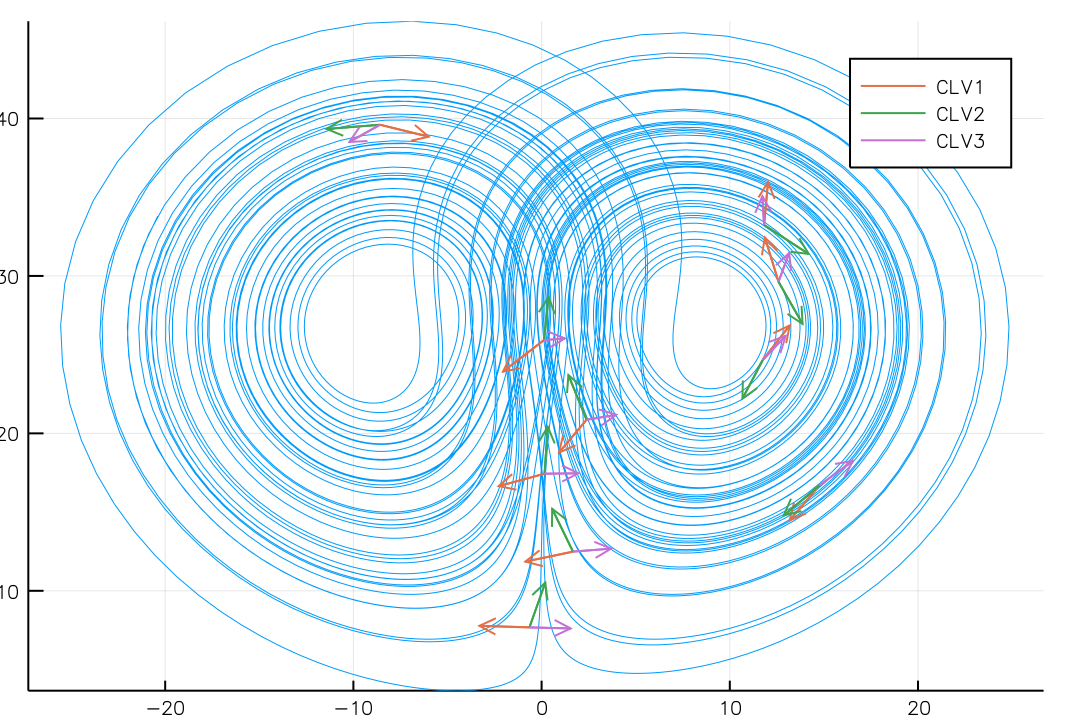
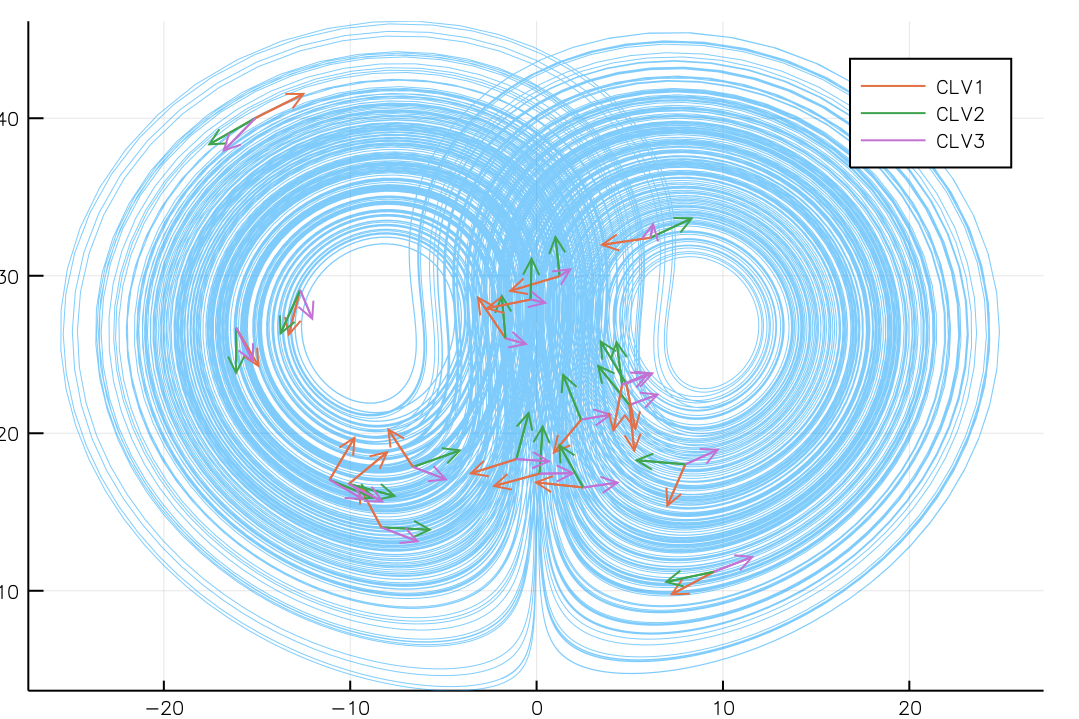
build based on 1c8a84d

diff --git a/latest/api/index.html b/latest/api/index.html
@@ -225,7 +225,7 @@
 
 <p>If <code>tspan</code> is a <code>Real</code> instead of a <code>Tuple</code>, then <code>(0, tspan)</code> is passed as the <code>tspan</code> argument of <code>ODEProblem</code>.</p>
 <p>For the list of usable keyword arguments, see <a href="./#LyapunovExponents.LEProblem"><code>LEProblem</code></a>.</p>
-<p><a target='_blank' href='https://github.com/tkf/LyapunovExponents.jl/blob/c022d71c2a09b2880fcd05c44c7dcf3eb368ccd7/src/continuous_exponents.jl#L16-L30' class='documenter-source'>source</a><br></p>
+<p><a target='_blank' href='https://github.com/tkf/LyapunovExponents.jl/blob/1c8a84dd873b4fe513eda391e4a660cf41289d58/src/continuous_exponents.jl#L16-L30' class='documenter-source'>source</a><br></p>
 <p><a id='LyapunovExponents.DiscreteLEProblem' href='#LyapunovExponents.DiscreteLEProblem'>#</a>
 <strong><code>LyapunovExponents.DiscreteLEProblem</code></strong> &mdash; <em>Type</em>.</p>
 <pre><code>DiscreteLEProblem(phase_dynamics!, u0, tspan [, p [, num_attr]];
@@ -238,29 +238,29 @@
 
 <p>If <code>tspan</code> is a <code>Integer</code> instead of a <code>Tuple</code>, then <code>(0, tspan)</code> is passed as the <code>tspan</code> argument of <code>DiscreteProblem</code>.</p>
 <p>For the list of usable keyword arguments, see <a href="./#LyapunovExponents.LEProblem"><code>LEProblem</code></a>.</p>
-<p><a target='_blank' href='https://github.com/tkf/LyapunovExponents.jl/blob/c022d71c2a09b2880fcd05c44c7dcf3eb368ccd7/src/discrete_exponents.jl#L34-L48' class='documenter-source'>source</a><br></p>
+<p><a target='_blank' href='https://github.com/tkf/LyapunovExponents.jl/blob/1c8a84dd873b4fe513eda391e4a660cf41289d58/src/discrete_exponents.jl#L34-L48' class='documenter-source'>source</a><br></p>
 <p><a id='LyapunovExponents.lyapunov_exponents' href='#LyapunovExponents.lyapunov_exponents'>#</a>
 <strong><code>LyapunovExponents.lyapunov_exponents</code></strong> &mdash; <em>Function</em>.</p>
 <pre><code>lyapunov_exponents(solver)
 </code></pre>
 
 <p>Get the result of Lyapunov exponents calculation stored in <code>solver</code>.</p>
-<p><a target='_blank' href='https://github.com/tkf/LyapunovExponents.jl/blob/c022d71c2a09b2880fcd05c44c7dcf3eb368ccd7/src/core.jl#L260-L264' class='documenter-source'>source</a><br></p>
+<p><a target='_blank' href='https://github.com/tkf/LyapunovExponents.jl/blob/1c8a84dd873b4fe513eda391e4a660cf41289d58/src/core.jl#L260-L264' class='documenter-source'>source</a><br></p>
 <pre><code>lyapunov_exponents(phase_dynamics!, u0, tspan; &lt;keyword arguments&gt;)
 </code></pre>
 
 <p>Calculate Lyapunov exponents of a dynamical system.</p>
-<p><a target='_blank' href='https://github.com/tkf/LyapunovExponents.jl/blob/c022d71c2a09b2880fcd05c44c7dcf3eb368ccd7/src/interface.jl#L1-L5' class='documenter-source'>source</a><br></p>
+<p><a target='_blank' href='https://github.com/tkf/LyapunovExponents.jl/blob/1c8a84dd873b4fe513eda391e4a660cf41289d58/src/interface.jl#L1-L5' class='documenter-source'>source</a><br></p>
 <p><a id='Low-level-API-1'></a></p>
 <h2 id="low-level-api">Low-level API</h2>
 <p><a id='LyapunovExponents.AbstractLEProblem' href='#LyapunovExponents.AbstractLEProblem'>#</a>
 <strong><code>LyapunovExponents.AbstractLEProblem</code></strong> &mdash; <em>Type</em>.</p>
 <p>The Problem type represents the setup of the Lyapunov exponents calculation.</p>
-<p><a target='_blank' href='https://github.com/tkf/LyapunovExponents.jl/blob/c022d71c2a09b2880fcd05c44c7dcf3eb368ccd7/src/types.jl#L3-L5' class='documenter-source'>source</a><br></p>
+<p><a target='_blank' href='https://github.com/tkf/LyapunovExponents.jl/blob/1c8a84dd873b4fe513eda391e4a660cf41289d58/src/types.jl#L3-L5' class='documenter-source'>source</a><br></p>
 <p><a id='LyapunovExponents.AbstractRelaxer' href='#LyapunovExponents.AbstractRelaxer'>#</a>
 <strong><code>LyapunovExponents.AbstractRelaxer</code></strong> &mdash; <em>Type</em>.</p>
 <p>The Relaxer type represents the calculation required for throwing away the transient part of the dynamics.</p>
-<p><a target='_blank' href='https://github.com/tkf/LyapunovExponents.jl/blob/c022d71c2a09b2880fcd05c44c7dcf3eb368ccd7/src/types.jl#L8-L11' class='documenter-source'>source</a><br></p>
+<p><a target='_blank' href='https://github.com/tkf/LyapunovExponents.jl/blob/1c8a84dd873b4fe513eda391e4a660cf41289d58/src/types.jl#L8-L11' class='documenter-source'>source</a><br></p>
 <p><a id='LyapunovExponents.AbstractLESolver' href='#LyapunovExponents.AbstractLESolver'>#</a>
 <strong><code>LyapunovExponents.AbstractLESolver</code></strong> &mdash; <em>Type</em>.</p>
 <p>The Solver type represents the core Lyapunov Exponents (LE) calculation.  The LE calculation is done by calling the in-place mutating function <a href="./#DiffEqBase.solve!"><code>solve!</code></a>.</p>
@@ -279,7 +279,7 @@
  │     ▼                                                              <br />
  └▶ Solver (<a href="./#LyapunovExponents.AbstractLESolver"><code>AbstractLESolver</code></a>) ┄┄ ⟲ <a href="./#DiffEqBase.solve!"><code>solve!</code></a>,                                                  <a href="./#DiffEqBase.step!"><code>step!</code></a>       <br />
  </code></p>
-<p><a target='_blank' href='https://github.com/tkf/LyapunovExponents.jl/blob/c022d71c2a09b2880fcd05c44c7dcf3eb368ccd7/src/types.jl#L14-L51' class='documenter-source'>source</a><br></p>
+<p><a target='_blank' href='https://github.com/tkf/LyapunovExponents.jl/blob/1c8a84dd873b4fe513eda391e4a660cf41289d58/src/types.jl#L14-L51' class='documenter-source'>source</a><br></p>
 <p><a id='LyapunovExponents.LEProblem' href='#LyapunovExponents.LEProblem'>#</a>
 <strong><code>LyapunovExponents.LEProblem</code></strong> &mdash; <em>Type</em>.</p>
 <pre><code>LEProblem(phase_prob, num_attr; &lt;keyword arguments&gt;)
@@ -295,21 +295,21 @@ LEProblem(phase_prob; num_attr, &lt;keyword arguments&gt;)
 <li><code>Q0::Array</code>: The initial guess of the Gram-Schmidt "Lyapunov vectors".</li>
 <li><code>tangent_dynamics::Function</code>: A vector field for solving phase space  evolution <em>and</em> tangent space evolution together.  If this is not  provided, <code>tangent_dynamics</code> is derived from <code>phase_prob.f</code>.  See  also <a href="./#LyapunovExponents.PhaseTangentDynamics"><code>PhaseTangentDynamics</code></a>.</li>
 </ul>
-<p><a target='_blank' href='https://github.com/tkf/LyapunovExponents.jl/blob/c022d71c2a09b2880fcd05c44c7dcf3eb368ccd7/src/types.jl#L41-L65' class='documenter-source'>source</a><br></p>
+<p><a target='_blank' href='https://github.com/tkf/LyapunovExponents.jl/blob/1c8a84dd873b4fe513eda391e4a660cf41289d58/src/types.jl#L41-L65' class='documenter-source'>source</a><br></p>
 <p><a id='LyapunovExponents.LESolver' href='#LyapunovExponents.LESolver'>#</a>
 <strong><code>LyapunovExponents.LESolver</code></strong> &mdash; <em>Type</em>.</p>
 <pre><code>LESolver(integrator; &lt;keyword arguments&gt;)
 </code></pre>
 
 <p>A type representing the main calculation of Lyapunov Exponents (LE). This struct holds all temporary state required for LE calculation.</p>
-<p><a target='_blank' href='https://github.com/tkf/LyapunovExponents.jl/blob/c022d71c2a09b2880fcd05c44c7dcf3eb368ccd7/src/types.jl#L107-L112' class='documenter-source'>source</a><br></p>
+<p><a target='_blank' href='https://github.com/tkf/LyapunovExponents.jl/blob/1c8a84dd873b4fe513eda391e4a660cf41289d58/src/types.jl#L107-L112' class='documenter-source'>source</a><br></p>
 <p><a id='LyapunovExponents.get_relaxer' href='#LyapunovExponents.get_relaxer'>#</a>
 <strong><code>LyapunovExponents.get_relaxer</code></strong> &mdash; <em>Function</em>.</p>
 <pre><code>get_relaxer(prob::AbstractLEProblem; &lt;keyword arguments&gt;) :: AbstractRelaxer
 </code></pre>
 
 <p>Get a relaxer for a LE problem.</p>
-<p><a target='_blank' href='https://github.com/tkf/LyapunovExponents.jl/blob/c022d71c2a09b2880fcd05c44c7dcf3eb368ccd7/src/core.jl#L9-L13' class='documenter-source'>source</a><br></p>
+<p><a target='_blank' href='https://github.com/tkf/LyapunovExponents.jl/blob/1c8a84dd873b4fe513eda391e4a660cf41289d58/src/core.jl#L9-L13' class='documenter-source'>source</a><br></p>
 <p><a id='LyapunovExponents.relaxed' href='#LyapunovExponents.relaxed'>#</a>
 <strong><code>LyapunovExponents.relaxed</code></strong> &mdash; <em>Function</em>.</p>
 <pre><code>relaxed(prob::AbstractLEProblem; &lt;keyword arguments&gt;) :: AbstractRelaxer
@@ -317,14 +317,14 @@ LEProblem(phase_prob; num_attr, &lt;keyword arguments&gt;)
 
 <p>Throwaway the transient part of the phase space dynamics of the LE problem <code>prob</code>.</p>
 <p>That is to say, convert a LE problem (<a href="./#LyapunovExponents.AbstractLEProblem"><code>AbstractLEProblem</code></a>) to a relaxer (<a href="./#LyapunovExponents.AbstractRelaxer"><code>AbstractRelaxer</code></a>) and then call <a href="./#LyapunovExponents.relax!"><code>relax!</code></a>.</p>
-<p><a target='_blank' href='https://github.com/tkf/LyapunovExponents.jl/blob/c022d71c2a09b2880fcd05c44c7dcf3eb368ccd7/src/core.jl#L36-L44' class='documenter-source'>source</a><br></p>
+<p><a target='_blank' href='https://github.com/tkf/LyapunovExponents.jl/blob/1c8a84dd873b4fe513eda391e4a660cf41289d58/src/core.jl#L36-L44' class='documenter-source'>source</a><br></p>
 <p><a id='LyapunovExponents.relax!' href='#LyapunovExponents.relax!'>#</a>
 <strong><code>LyapunovExponents.relax!</code></strong> &mdash; <em>Function</em>.</p>
 <pre><code>relax!(relaxer::AbstractRelaxer; &lt;keyword arguments&gt;)
 </code></pre>
 
 <p>Throwaway the transient part of the phase space dynamics of the LE problem <code>prob</code>.</p>
-<p><a target='_blank' href='https://github.com/tkf/LyapunovExponents.jl/blob/c022d71c2a09b2880fcd05c44c7dcf3eb368ccd7/src/core.jl#L17-L22' class='documenter-source'>source</a><br></p>
+<p><a target='_blank' href='https://github.com/tkf/LyapunovExponents.jl/blob/1c8a84dd873b4fe513eda391e4a660cf41289d58/src/core.jl#L17-L22' class='documenter-source'>source</a><br></p>
 <p><a id='DiffEqBase.init' href='#DiffEqBase.init'>#</a>
 <strong><code>DiffEqBase.init</code></strong> &mdash; <em>Function</em>.</p>
 <pre><code>init(prob::AbstractLEProblem; &lt;keyword arguments&gt;) :: AbstractLESolver
@@ -332,26 +332,26 @@ init(relaxer::AbstractRelaxer; &lt;keyword arguments&gt;) :: AbstractLESolver
 </code></pre>
 
 <p>Run phase space simulation to throw away the transient and then construct a LE solver.</p>
-<p><a target='_blank' href='https://github.com/tkf/LyapunovExponents.jl/blob/c022d71c2a09b2880fcd05c44c7dcf3eb368ccd7/src/core.jl#L112-L118' class='documenter-source'>source</a><br></p>
+<p><a target='_blank' href='https://github.com/tkf/LyapunovExponents.jl/blob/1c8a84dd873b4fe513eda391e4a660cf41289d58/src/core.jl#L112-L118' class='documenter-source'>source</a><br></p>
 <p><a id='DiffEqBase.step!' href='#DiffEqBase.step!'>#</a>
 <strong><code>DiffEqBase.step!</code></strong> &mdash; <em>Function</em>.</p>
 <pre><code>step!(solver::AbstractLESolver)
 </code></pre>
 
 <p>Evolve the dynamics and then do an orthonormalization.</p>
-<p><a target='_blank' href='https://github.com/tkf/LyapunovExponents.jl/blob/c022d71c2a09b2880fcd05c44c7dcf3eb368ccd7/src/core.jl#L183-L187' class='documenter-source'>source</a><br></p>
+<p><a target='_blank' href='https://github.com/tkf/LyapunovExponents.jl/blob/1c8a84dd873b4fe513eda391e4a660cf41289d58/src/core.jl#L183-L187' class='documenter-source'>source</a><br></p>
 <p><a id='DiffEqBase.solve!' href='#DiffEqBase.solve!'>#</a>
 <strong><code>DiffEqBase.solve!</code></strong> &mdash; <em>Function</em>.</p>
 <pre><code>solve!(solver::AbstractLESolver; &lt;keyword arguments&gt;)
 </code></pre>
 
 <p>Do <code>solver.num_attr</code> times of orthonormalization <code>step!(solver)</code>.</p>
-<p><a target='_blank' href='https://github.com/tkf/LyapunovExponents.jl/blob/c022d71c2a09b2880fcd05c44c7dcf3eb368ccd7/src/core.jl#L228-L232' class='documenter-source'>source</a><br></p>
+<p><a target='_blank' href='https://github.com/tkf/LyapunovExponents.jl/blob/1c8a84dd873b4fe513eda391e4a660cf41289d58/src/core.jl#L228-L232' class='documenter-source'>source</a><br></p>
 <pre><code>solve!(demo::LEDemo; progress=-1, &lt;keyword arguments&gt;)
 </code></pre>
 
 <p>Initialize <code>demo.solver</code> from <code>demo.prob</code> and run <code>solve!(demo.solver)</code> to calculate the Lyapunov exponents.</p>
-<p><a target='_blank' href='https://github.com/tkf/LyapunovExponents.jl/blob/c022d71c2a09b2880fcd05c44c7dcf3eb368ccd7/src/examples/example_base.jl#L73-L78' class='documenter-source'>source</a><br></p>
+<p><a target='_blank' href='https://github.com/tkf/LyapunovExponents.jl/blob/1c8a84dd873b4fe513eda391e4a660cf41289d58/src/examples/example_base.jl#L73-L78' class='documenter-source'>source</a><br></p>
 <p><a id='DiffEqBase.solve' href='#DiffEqBase.solve'>#</a>
 <strong><code>DiffEqBase.solve</code></strong> &mdash; <em>Function</em>.</p>
 <pre><code>solve(prob::AbstractLEProblem; &lt;keyword arguments&gt;)
@@ -359,11 +359,11 @@ init(relaxer::AbstractRelaxer; &lt;keyword arguments&gt;) :: AbstractLESolver
 </code></pre>
 
 <p>Initialize the solver (<a href="./#DiffEqBase.init"><code>init</code></a>) and then go through the LE calculation (<a href="./#DiffEqBase.solve!"><code>solve!</code></a>).</p>
-<p><a target='_blank' href='https://github.com/tkf/LyapunovExponents.jl/blob/c022d71c2a09b2880fcd05c44c7dcf3eb368ccd7/src/core.jl#L245-L251' class='documenter-source'>source</a><br></p>
+<p><a target='_blank' href='https://github.com/tkf/LyapunovExponents.jl/blob/1c8a84dd873b4fe513eda391e4a660cf41289d58/src/core.jl#L245-L251' class='documenter-source'>source</a><br></p>
 <p><a id='LyapunovExponents.PhaseTangentDynamics' href='#LyapunovExponents.PhaseTangentDynamics'>#</a>
 <strong><code>LyapunovExponents.PhaseTangentDynamics</code></strong> &mdash; <em>Type</em>.</p>
 <p>Auto-generated dynamics for solving phase and tangent dynamics together.</p>
-<p><a target='_blank' href='https://github.com/tkf/LyapunovExponents.jl/blob/c022d71c2a09b2880fcd05c44c7dcf3eb368ccd7/src/coevolve.jl#L1-L3' class='documenter-source'>source</a><br></p>
+<p><a target='_blank' href='https://github.com/tkf/LyapunovExponents.jl/blob/1c8a84dd873b4fe513eda391e4a660cf41289d58/src/coevolve.jl#L1-L3' class='documenter-source'>source</a><br></p>
 <p><a id='API-for-CLV-solver-1'></a></p>
 <h2 id="api-for-clv-solver">API for CLV solver</h2>
 <p><a id='LyapunovExponents.CovariantVectors.CLVProblem' href='#LyapunovExponents.CovariantVectors.CLVProblem'>#</a>
@@ -391,7 +391,7 @@ CLVProblem(le_prob::LEProblem; &lt;keyword arguments&gt;)
 <li>Ginelli, F., Poggi, P., Turchi, A., Chaté, H., Livi, R., &amp; Politi, A. (2007). <em>Characterizing Dynamics with Covariant Lyapunov Vectors.</em> Physical Review Letters, 99(13), 1–4. <a href="http://doi.org/10.1103/PhysRevLett.99.130601">http://doi.org/10.1103/PhysRevLett.99.130601</a></li>
 <li>Ginelli, F., Chaté, H., Livi, R., &amp; Politi, A. (2013). <em>Covariant Lyapunov vectors.</em> Journal of Physics A: Mathematical and Theoretical, 46(25), 254005. <a href="http://doi.org/10.1088/1751-8113/46/25/254005">http://doi.org/10.1088/1751-8113/46/25/254005</a></li>
 </ul>
-<p><a target='_blank' href='https://github.com/tkf/LyapunovExponents.jl/blob/c022d71c2a09b2880fcd05c44c7dcf3eb368ccd7/src/clv/clv_problem.jl#L3-L38' class='documenter-source'>source</a><br></p>
+<p><a target='_blank' href='https://github.com/tkf/LyapunovExponents.jl/blob/1c8a84dd873b4fe513eda391e4a660cf41289d58/src/clv/clv_problem.jl#L3-L38' class='documenter-source'>source</a><br></p>
 <p><a id='LyapunovExponents.CovariantVectors.CLV' href='#LyapunovExponents.CovariantVectors.CLV'>#</a>
 <strong><code>LyapunovExponents.CovariantVectors.CLV</code></strong> &mdash; <em>Module</em>.</p>
 <p>Convenience methods for accessing CLV matrices.</p>
@@ -402,45 +402,45 @@ G_{n+k} C_{n+k} D_{k,n} = M_{k,n} G_n C_n = G_{n+k} R_{k,n} C_n
 </script>
 </p>
 <p>(Eq. 32, Ginelli et al., 2013).</p>
-<p><a target='_blank' href='https://github.com/tkf/LyapunovExponents.jl/blob/c022d71c2a09b2880fcd05c44c7dcf3eb368ccd7/src/clv/accessors.jl#L1' class='documenter-source'>source</a><br></p>
+<p><a target='_blank' href='https://github.com/tkf/LyapunovExponents.jl/blob/1c8a84dd873b4fe513eda391e4a660cf41289d58/src/clv/accessors.jl#L1' class='documenter-source'>source</a><br></p>
 <p><a id='LyapunovExponents.CovariantVectors.CLV.M' href='#LyapunovExponents.CovariantVectors.CLV.M'>#</a>
 <strong><code>LyapunovExponents.CovariantVectors.CLV.M</code></strong> &mdash; <em>Function</em>.</p>
 <p>$M_n$ (the cocycle)</p>
-<p><a target='_blank' href='https://github.com/tkf/LyapunovExponents.jl/blob/c022d71c2a09b2880fcd05c44c7dcf3eb368ccd7/src/clv/accessors.jl#L15' class='documenter-source'>source</a><br></p>
+<p><a target='_blank' href='https://github.com/tkf/LyapunovExponents.jl/blob/1c8a84dd873b4fe513eda391e4a660cf41289d58/src/clv/accessors.jl#L15' class='documenter-source'>source</a><br></p>
 <p><a id='LyapunovExponents.CovariantVectors.CLV.G' href='#LyapunovExponents.CovariantVectors.CLV.G'>#</a>
 <strong><code>LyapunovExponents.CovariantVectors.CLV.G</code></strong> &mdash; <em>Function</em>.</p>
 <p>$G_n$ (<code>Q</code> from the QR decomposition of $M_{k,n-k} G_{n-k}$)</p>
-<p><a target='_blank' href='https://github.com/tkf/LyapunovExponents.jl/blob/c022d71c2a09b2880fcd05c44c7dcf3eb368ccd7/src/clv/accessors.jl#L18' class='documenter-source'>source</a><br></p>
+<p><a target='_blank' href='https://github.com/tkf/LyapunovExponents.jl/blob/1c8a84dd873b4fe513eda391e4a660cf41289d58/src/clv/accessors.jl#L18' class='documenter-source'>source</a><br></p>
 <p><a id='LyapunovExponents.CovariantVectors.CLV.R' href='#LyapunovExponents.CovariantVectors.CLV.R'>#</a>
 <strong><code>LyapunovExponents.CovariantVectors.CLV.R</code></strong> &mdash; <em>Function</em>.</p>
 <p>$R_n$ (<code>R</code> from the QR decomposition of $M_{k,n-k} G_{n-k}$)</p>
-<p><a target='_blank' href='https://github.com/tkf/LyapunovExponents.jl/blob/c022d71c2a09b2880fcd05c44c7dcf3eb368ccd7/src/clv/accessors.jl#L21' class='documenter-source'>source</a><br></p>
+<p><a target='_blank' href='https://github.com/tkf/LyapunovExponents.jl/blob/1c8a84dd873b4fe513eda391e4a660cf41289d58/src/clv/accessors.jl#L21' class='documenter-source'>source</a><br></p>
 <p><a id='LyapunovExponents.CovariantVectors.CLV.R_prev' href='#LyapunovExponents.CovariantVectors.CLV.R_prev'>#</a>
 <strong><code>LyapunovExponents.CovariantVectors.CLV.R_prev</code></strong> &mdash; <em>Function</em>.</p>
 <p>$R_{n-k}$</p>
-<p><a target='_blank' href='https://github.com/tkf/LyapunovExponents.jl/blob/c022d71c2a09b2880fcd05c44c7dcf3eb368ccd7/src/clv/accessors.jl#L24' class='documenter-source'>source</a><br></p>
+<p><a target='_blank' href='https://github.com/tkf/LyapunovExponents.jl/blob/1c8a84dd873b4fe513eda391e4a660cf41289d58/src/clv/accessors.jl#L24' class='documenter-source'>source</a><br></p>
 <p><a id='LyapunovExponents.CovariantVectors.CLV.C' href='#LyapunovExponents.CovariantVectors.CLV.C'>#</a>
 <strong><code>LyapunovExponents.CovariantVectors.CLV.C</code></strong> &mdash; <em>Function</em>.</p>
 <p>$C_n$</p>
-<p><a target='_blank' href='https://github.com/tkf/LyapunovExponents.jl/blob/c022d71c2a09b2880fcd05c44c7dcf3eb368ccd7/src/clv/accessors.jl#L27' class='documenter-source'>source</a><br></p>
+<p><a target='_blank' href='https://github.com/tkf/LyapunovExponents.jl/blob/1c8a84dd873b4fe513eda391e4a660cf41289d58/src/clv/accessors.jl#L27' class='documenter-source'>source</a><br></p>
 <p><a id='LyapunovExponents.CovariantVectors.CLV.D' href='#LyapunovExponents.CovariantVectors.CLV.D'>#</a>
 <strong><code>LyapunovExponents.CovariantVectors.CLV.D</code></strong> &mdash; <em>Function</em>.</p>
 <p>$D_n$</p>
-<p><a target='_blank' href='https://github.com/tkf/LyapunovExponents.jl/blob/c022d71c2a09b2880fcd05c44c7dcf3eb368ccd7/src/clv/accessors.jl#L30' class='documenter-source'>source</a><br></p>
+<p><a target='_blank' href='https://github.com/tkf/LyapunovExponents.jl/blob/1c8a84dd873b4fe513eda391e4a660cf41289d58/src/clv/accessors.jl#L30' class='documenter-source'>source</a><br></p>
 <p><a id='LyapunovExponents.phase_state' href='#LyapunovExponents.phase_state'>#</a>
 <strong><code>LyapunovExponents.phase_state</code></strong> &mdash; <em>Function</em>.</p>
 <pre><code>phase_state(solverish) :: Vector
 </code></pre>
 
 <p>Get current phase-space state stored in <code>solverish</code>.</p>
-<p><a target='_blank' href='https://github.com/tkf/LyapunovExponents.jl/blob/c022d71c2a09b2880fcd05c44c7dcf3eb368ccd7/src/types.jl#L219-L223' class='documenter-source'>source</a><br></p>
+<p><a target='_blank' href='https://github.com/tkf/LyapunovExponents.jl/blob/1c8a84dd873b4fe513eda391e4a660cf41289d58/src/types.jl#L219-L223' class='documenter-source'>source</a><br></p>
 <p><a id='LyapunovExponents.CovariantVectors.forward_dynamics!' href='#LyapunovExponents.CovariantVectors.forward_dynamics!'>#</a>
 <strong><code>LyapunovExponents.CovariantVectors.forward_dynamics!</code></strong> &mdash; <em>Function</em>.</p>
 <pre><code>forward_dynamics!(solver::CLVSolver) :: ForwardDynamics
 </code></pre>
 
 <p>Solve the CLV problem up to the forward dynamics stage and return an iterator to step through the forward dynamics. See also: <a href="./#LyapunovExponents.CovariantVectors.backward_dynamics!"><code>backward_dynamics!</code></a>, <a href="./#LyapunovExponents.CovariantVectors.goto!"><code>goto!</code></a>.</p>
-<p><a target='_blank' href='https://github.com/tkf/LyapunovExponents.jl/blob/c022d71c2a09b2880fcd05c44c7dcf3eb368ccd7/src/clv/clv_solver.jl#L115-L121' class='documenter-source'>source</a><br></p>
+<p><a target='_blank' href='https://github.com/tkf/LyapunovExponents.jl/blob/1c8a84dd873b4fe513eda391e4a660cf41289d58/src/clv/clv_solver.jl#L115-L121' class='documenter-source'>source</a><br></p>
 <p><a id='LyapunovExponents.CovariantVectors.backward_dynamics!' href='#LyapunovExponents.CovariantVectors.backward_dynamics!'>#</a>
 <strong><code>LyapunovExponents.CovariantVectors.backward_dynamics!</code></strong> &mdash; <em>Function</em>.</p>
 <pre><code>backward_dynamics!(solver::CLVSolver) :: BackwardDynamics
@@ -453,7 +453,7 @@ G_{n+k} C_{n+k} D_{k,n} = M_{k,n} G_n C_n = G_{n+k} R_{k,n} C_n
           in backward_dynamics!(solver)]
 </code></pre>
 
-<p><a target='_blank' href='https://github.com/tkf/LyapunovExponents.jl/blob/c022d71c2a09b2880fcd05c44c7dcf3eb368ccd7/src/clv/clv_solver.jl#L135-L152' class='documenter-source'>source</a><br></p>
+<p><a target='_blank' href='https://github.com/tkf/LyapunovExponents.jl/blob/1c8a84dd873b4fe513eda391e4a660cf41289d58/src/clv/clv_solver.jl#L135-L152' class='documenter-source'>source</a><br></p>
 <p><a id='LyapunovExponents.CovariantVectors.indexed_forward_dynamics!' href='#LyapunovExponents.CovariantVectors.indexed_forward_dynamics!'>#</a>
 <strong><code>LyapunovExponents.CovariantVectors.indexed_forward_dynamics!</code></strong> &mdash; <em>Function</em>.</p>
 <pre><code>indexed_forward_dynamics!(solver::CLVSolver)
@@ -461,7 +461,7 @@ indexed_forward_dynamics!(stage::ForwardDynamics)
 </code></pre>
 
 <p>Just a short-hand for <code>enumerate(forward_dynamics!(solver))</code>. It's for symmetry with <a href="./#LyapunovExponents.CovariantVectors.indexed_backward_dynamics!"><code>indexed_backward_dynamics!</code></a>.</p>
-<p><a target='_blank' href='https://github.com/tkf/LyapunovExponents.jl/blob/c022d71c2a09b2880fcd05c44c7dcf3eb368ccd7/src/clv/clv_solver.jl#L124-L130' class='documenter-source'>source</a><br></p>
+<p><a target='_blank' href='https://github.com/tkf/LyapunovExponents.jl/blob/1c8a84dd873b4fe513eda391e4a660cf41289d58/src/clv/clv_solver.jl#L124-L130' class='documenter-source'>source</a><br></p>
 <p><a id='LyapunovExponents.CovariantVectors.indexed_backward_dynamics!' href='#LyapunovExponents.CovariantVectors.indexed_backward_dynamics!'>#</a>
 <strong><code>LyapunovExponents.CovariantVectors.indexed_backward_dynamics!</code></strong> &mdash; <em>Function</em>.</p>
 <pre><code>indexed_backward_dynamics!(solver::CLVSolver)
@@ -477,7 +477,7 @@ indexed_backward_dynamics!(backward)
 
 <p>Separately calling <a href="./#LyapunovExponents.CovariantVectors.backward_dynamics!"><code>backward_dynamics!</code></a> is useful when the quantities other than <a href="./#LyapunovExponents.CovariantVectors.CLV.G"><code>CLV.G</code></a> (e.g., <a href="./#LyapunovExponents.CovariantVectors.CLV.R"><code>CLV.R</code></a>) are required.</p>
 <p>See also <a href="./#LyapunovExponents.CovariantVectors.indexed_forward_dynamics!"><code>indexed_forward_dynamics!</code></a>.</p>
-<p><a target='_blank' href='https://github.com/tkf/LyapunovExponents.jl/blob/c022d71c2a09b2880fcd05c44c7dcf3eb368ccd7/src/clv/clv_solver.jl#L155-L181' class='documenter-source'>source</a><br></p>
+<p><a target='_blank' href='https://github.com/tkf/LyapunovExponents.jl/blob/1c8a84dd873b4fe513eda391e4a660cf41289d58/src/clv/clv_solver.jl#L155-L181' class='documenter-source'>source</a><br></p>
 <p><a id='Low-level-API-for-CLV-solver-1'></a></p>
 <h3 id="low-level-api-for-clv-solver">Low-level API for CLV solver</h3>
 <p><a id='LyapunovExponents.CovariantVectors.goto!' href='#LyapunovExponents.CovariantVectors.goto!'>#</a>
@@ -486,7 +486,7 @@ indexed_backward_dynamics!(backward)
 </code></pre>
 
 <p>Solve the CLV problem up to the stage of type <code>stage_type</code> and return it.  Instead of directly calling <code>goto!(solver, ForwardDynamics)</code> and <code>goto!(solver, BackwardDynamics)</code>, use the convenience methods <a href="./#LyapunovExponents.CovariantVectors.forward_dynamics!"><code>forward_dynamics!</code></a> and <a href="./#LyapunovExponents.CovariantVectors.backward_dynamics!"><code>backward_dynamics!</code></a>.</p>
-<p><a target='_blank' href='https://github.com/tkf/LyapunovExponents.jl/blob/c022d71c2a09b2880fcd05c44c7dcf3eb368ccd7/src/clv/clv_solver.jl#L91-L98' class='documenter-source'>source</a><br></p></div>
+<p><a target='_blank' href='https://github.com/tkf/LyapunovExponents.jl/blob/1c8a84dd873b4fe513eda391e4a660cf41289d58/src/clv/clv_solver.jl#L91-L98' class='documenter-source'>source</a><br></p></div>
         
     </div>
 

diff --git a/latest/examples/index.html b/latest/examples/index.html
@@ -221,11 +221,11 @@ plot(demo)
 </code></pre>
 
 <p>Create a <code>LEDemo</code> holding an <code>example</code> and an appropriate <code>LEProblem</code> created from the <code>example</code>.</p>
-<p><a target='_blank' href='https://github.com/tkf/LyapunovExponents.jl/blob/c022d71c2a09b2880fcd05c44c7dcf3eb368ccd7/src/examples/example_base.jl#L54-L68' class='documenter-source'>source</a><br></p>
+<p><a target='_blank' href='https://github.com/tkf/LyapunovExponents.jl/blob/1c8a84dd873b4fe513eda391e4a660cf41289d58/src/examples/example_base.jl#L54-L68' class='documenter-source'>source</a><br></p>
 <p><a id='LyapunovExponents.Examples.ExampleBase.LEExample' href='#LyapunovExponents.Examples.ExampleBase.LEExample'>#</a>
 <strong><code>LyapunovExponents.Examples.ExampleBase.LEExample</code></strong> &mdash; <em>Type</em>.</p>
 <p>A type to hold an example dynamical system and its known Lyapunov exponents.</p>
-<p><a target='_blank' href='https://github.com/tkf/LyapunovExponents.jl/blob/c022d71c2a09b2880fcd05c44c7dcf3eb368ccd7/src/examples/example_base.jl#L9-L11' class='documenter-source'>source</a><br></p>
+<p><a target='_blank' href='https://github.com/tkf/LyapunovExponents.jl/blob/1c8a84dd873b4fe513eda391e4a660cf41289d58/src/examples/example_base.jl#L9-L11' class='documenter-source'>source</a><br></p>
 <p><a id='Discrete-systems-1'></a></p>
 <h2 id="discrete-systems">Discrete systems</h2>
 <p><a id='LyapunovExponents.Examples.HenonMap.henon_map' href='#LyapunovExponents.Examples.HenonMap.henon_map'>#</a>
@@ -236,11 +236,11 @@ plot(demo)
 <li><a href="http://sprott.physics.wisc.edu/chaos/comchaos.htm">http://sprott.physics.wisc.edu/chaos/comchaos.htm</a></li>
 <li><a href="https://en.wikipedia.org/wiki/H%C3%A9non_map">https://en.wikipedia.org/wiki/H%C3%A9non_map</a></li>
 </ul>
-<p><a target='_blank' href='https://github.com/tkf/LyapunovExponents.jl/blob/c022d71c2a09b2880fcd05c44c7dcf3eb368ccd7/src/examples/henon_map.jl#L25-L31' class='documenter-source'>source</a><br></p>
+<p><a target='_blank' href='https://github.com/tkf/LyapunovExponents.jl/blob/1c8a84dd873b4fe513eda391e4a660cf41289d58/src/examples/henon_map.jl#L25-L31' class='documenter-source'>source</a><br></p>
 <p><a id='LyapunovExponents.Examples.LoziMap.lozi_map' href='#LyapunovExponents.Examples.LoziMap.lozi_map'>#</a>
 <strong><code>LyapunovExponents.Examples.LoziMap.lozi_map</code></strong> &mdash; <em>Function</em>.</p>
 <p>Return a <a href="./#LyapunovExponents.Examples.ExampleBase.LEDemo"><code>LEDemo</code></a> for the Lozi map.</p>
-<p><a target='_blank' href='https://github.com/tkf/LyapunovExponents.jl/blob/c022d71c2a09b2880fcd05c44c7dcf3eb368ccd7/src/examples/lozi_map.jl#L25-L27' class='documenter-source'>source</a><br></p>
+<p><a target='_blank' href='https://github.com/tkf/LyapunovExponents.jl/blob/1c8a84dd873b4fe513eda391e4a660cf41289d58/src/examples/lozi_map.jl#L25-L27' class='documenter-source'>source</a><br></p>
 <p><a id='LyapunovExponents.Examples.StandardMap.standard_map' href='#LyapunovExponents.Examples.StandardMap.standard_map'>#</a>
 <strong><code>LyapunovExponents.Examples.StandardMap.standard_map</code></strong> &mdash; <em>Function</em>.</p>
 <p>Return a <a href="./#LyapunovExponents.Examples.ExampleBase.LEDemo"><code>LEDemo</code></a> for the Chirikov standard map.</p>
@@ -250,21 +250,21 @@ plot(demo)
 <li><a href="https://en.wikipedia.org/wiki/Standard_map">https://en.wikipedia.org/wiki/Standard_map</a></li>
 <li><a href="http://www.scholarpedia.org/article/Chirikov_standard_map">http://www.scholarpedia.org/article/Chirikov_standard_map</a></li>
 </ul>
-<p><a target='_blank' href='https://github.com/tkf/LyapunovExponents.jl/blob/c022d71c2a09b2880fcd05c44c7dcf3eb368ccd7/src/examples/standard_map.jl#L16-L23' class='documenter-source'>source</a><br></p>
+<p><a target='_blank' href='https://github.com/tkf/LyapunovExponents.jl/blob/1c8a84dd873b4fe513eda391e4a660cf41289d58/src/examples/standard_map.jl#L16-L23' class='documenter-source'>source</a><br></p>
 <p><a id='LyapunovExponents.Examples.BakersMap.bakers_map' href='#LyapunovExponents.Examples.BakersMap.bakers_map'>#</a>
 <strong><code>LyapunovExponents.Examples.BakersMap.bakers_map</code></strong> &mdash; <em>Function</em>.</p>
 <p>Baker's map</p>
 <ul>
 <li><a href="https://en.wikipedia.org/wiki/Baker%27s_map">https://en.wikipedia.org/wiki/Baker%27s_map</a></li>
 </ul>
-<p><a target='_blank' href='https://github.com/tkf/LyapunovExponents.jl/blob/c022d71c2a09b2880fcd05c44c7dcf3eb368ccd7/src/examples/bakers_map.jl#L5-L9' class='documenter-source'>source</a><br></p>
+<p><a target='_blank' href='https://github.com/tkf/LyapunovExponents.jl/blob/1c8a84dd873b4fe513eda391e4a660cf41289d58/src/examples/bakers_map.jl#L5-L9' class='documenter-source'>source</a><br></p>
 <p><a id='LyapunovExponents.Examples.ArnoldCatMap.arnold_cat_map' href='#LyapunovExponents.Examples.ArnoldCatMap.arnold_cat_map'>#</a>
 <strong><code>LyapunovExponents.Examples.ArnoldCatMap.arnold_cat_map</code></strong> &mdash; <em>Function</em>.</p>
 <p>Return a <a href="./#LyapunovExponents.Examples.ExampleBase.LEDemo"><code>LEDemo</code></a> for the Arnold's cat map</p>
 <ul>
 <li><a href="https://en.wikipedia.org/wiki/Arnold%27s_cat_map">https://en.wikipedia.org/wiki/Arnold%27s_cat_map</a></li>
 </ul>
-<p><a target='_blank' href='https://github.com/tkf/LyapunovExponents.jl/blob/c022d71c2a09b2880fcd05c44c7dcf3eb368ccd7/src/examples/arnold_cat_map.jl#L17-L21' class='documenter-source'>source</a><br></p>
+<p><a target='_blank' href='https://github.com/tkf/LyapunovExponents.jl/blob/1c8a84dd873b4fe513eda391e4a660cf41289d58/src/examples/arnold_cat_map.jl#L17-L21' class='documenter-source'>source</a><br></p>
 <p><a id='Continuous-systems-1'></a></p>
 <h2 id="continuous-systems">Continuous systems</h2>
 <p><a id='LyapunovExponents.Examples.Lorenz63.lorenz_63' href='#LyapunovExponents.Examples.Lorenz63.lorenz_63'>#</a>
@@ -275,7 +275,7 @@ plot(demo)
 <li><a href="http://sprott.physics.wisc.edu/chaos/comchaos.htm">http://sprott.physics.wisc.edu/chaos/comchaos.htm</a></li>
 <li>E. N. Lorenz, J. Atmos. Sci. 20, 130-141 (1963)</li>
 </ul>
-<p><a target='_blank' href='https://github.com/tkf/LyapunovExponents.jl/blob/c022d71c2a09b2880fcd05c44c7dcf3eb368ccd7/src/examples/lorenz_63.jl#L33-L39' class='documenter-source'>source</a><br></p>
+<p><a target='_blank' href='https://github.com/tkf/LyapunovExponents.jl/blob/1c8a84dd873b4fe513eda391e4a660cf41289d58/src/examples/lorenz_63.jl#L33-L39' class='documenter-source'>source</a><br></p>
 <p><a id='LyapunovExponents.Examples.LinzSprott99.linz_sprott_99' href='#LyapunovExponents.Examples.LinzSprott99.linz_sprott_99'>#</a>
 <strong><code>LyapunovExponents.Examples.LinzSprott99.linz_sprott_99</code></strong> &mdash; <em>Function</em>.</p>
 <p>Return a <a href="./#LyapunovExponents.Examples.ExampleBase.LEDemo"><code>LEDemo</code></a> for the simplest piecewise linear dissipative chaotic flow.</p>
@@ -283,7 +283,7 @@ plot(demo)
 <li><a href="http://sprott.physics.wisc.edu/chaos/comchaos.htm">http://sprott.physics.wisc.edu/chaos/comchaos.htm</a></li>
 <li>S. J. Linz and J. C. Sprott, Phys. Lett. A 259, 240-245 (1999)</li>
 </ul>
-<p><a target='_blank' href='https://github.com/tkf/LyapunovExponents.jl/blob/c022d71c2a09b2880fcd05c44c7dcf3eb368ccd7/src/examples/linz_sprott_99.jl#L20-L26' class='documenter-source'>source</a><br></p>
+<p><a target='_blank' href='https://github.com/tkf/LyapunovExponents.jl/blob/1c8a84dd873b4fe513eda391e4a660cf41289d58/src/examples/linz_sprott_99.jl#L20-L26' class='documenter-source'>source</a><br></p>
 <p><a id='LyapunovExponents.Examples.VanDerPol.van_der_pol' href='#LyapunovExponents.Examples.VanDerPol.van_der_pol'>#</a>
 <strong><code>LyapunovExponents.Examples.VanDerPol.van_der_pol</code></strong> &mdash; <em>Function</em>.</p>
 <p>Return a <a href="./#LyapunovExponents.Examples.ExampleBase.LEDemo"><code>LEDemo</code></a> for the van der Pol oscillator with periodic forcing.</p>
@@ -295,14 +295,14 @@ plot(demo)
 <li>Parlitz, Ulrich, and Werner Lauterborn. “Period-Doubling Cascades and Devil’s Staircases of the Driven van Der Pol Oscillator.” Physical Review A 36, no. 3 (August 1, 1987): 1428–34. <a href="https://doi.org/10.1103/PhysRevA.36.1428">https://doi.org/10.1103/PhysRevA.36.1428</a>. (Figure 10a)</li>
 <li>Geist, K., Parlitz, U., &amp; Lauterborn, W. (1990). Comparison of Different Methods for Computing Lyapunov Exponents. Progress of Theoretical Physics, 83, 875–893. <a href="https://doi.org/10.1143/PTP.83.875">https://doi.org/10.1143/PTP.83.875</a>. (Figure 6)</li>
 </ul>
-<p><a target='_blank' href='https://github.com/tkf/LyapunovExponents.jl/blob/c022d71c2a09b2880fcd05c44c7dcf3eb368ccd7/src/examples/van_der_pol.jl#L28-L50' class='documenter-source'>source</a><br></p>
+<p><a target='_blank' href='https://github.com/tkf/LyapunovExponents.jl/blob/1c8a84dd873b4fe513eda391e4a660cf41289d58/src/examples/van_der_pol.jl#L28-L50' class='documenter-source'>source</a><br></p>
 <p><a id='LyapunovExponents.Examples.RNN.beer_95' href='#LyapunovExponents.Examples.RNN.beer_95'>#</a>
 <strong><code>LyapunovExponents.Examples.RNN.beer_95</code></strong> &mdash; <em>Function</em>.</p>
 <p>Return a <a href="./#LyapunovExponents.Examples.ExampleBase.LEDemo"><code>LEDemo</code></a> for a low-dimensional chaotic continuous-time recurrent neural networks by Beer (1995).</p>
 <ul>
 <li>Beer, R. D. (1995). On the dynamics of small continuous-time recurrent neural networks. Adapt. Behav., 3(4), 469–509. <a href="https://doi.org/10.1177/105971239500300405">https://doi.org/10.1177/105971239500300405</a>. (Figure 9D)</li>
 </ul>
-<p><a target='_blank' href='https://github.com/tkf/LyapunovExponents.jl/blob/c022d71c2a09b2880fcd05c44c7dcf3eb368ccd7/src/examples/rnn.jl#L28-L36' class='documenter-source'>source</a><br></p></div>
+<p><a target='_blank' href='https://github.com/tkf/LyapunovExponents.jl/blob/1c8a84dd873b4fe513eda391e4a660cf41289d58/src/examples/rnn.jl#L28-L36' class='documenter-source'>source</a><br></p></div>
         
     </div>
 

diff --git a/latest/gallery/Lorenz_CLV/index.html b/latest/gallery/Lorenz_CLV/index.html
@@ -210,8 +210,8 @@
 <p>This is a demonstration for solving CLV problem <a href="../../api/#LyapunovExponents.CovariantVectors.CLVProblem"><code>CLVProblem</code></a> and receiving the results via the iterator-based APIs <a href="../../api/#LyapunovExponents.CovariantVectors.indexed_forward_dynamics!"><code>indexed_forward_dynamics!</code></a>, <a href="../../api/#LyapunovExponents.CovariantVectors.indexed_backward_dynamics!"><code>indexed_backward_dynamics!</code></a>, <a href="../../api/#LyapunovExponents.CovariantVectors.CLV"><code>CLV</code></a>, etc.</p>
 <pre><code class="julia">using LyapunovExponents
 
-num_rec = 10
-sampling_interval = 2
+num_rec = 20
+sampling_interval = 5
 num_clv = num_rec * sampling_interval
 prob = CLVProblem(LyapunovExponents.lorenz_63().prob,
                   num_forward_tran = 4000,
@@ -252,7 +252,7 @@ sol = solve(ODEProblem(
 ))
 
 using Plots
-plt = plot(sol, vars=(2, 3), linewidth=0.5, label=&quot;&quot;)
+plt = plot(sol, vars=(2, 3), linewidth=0.5, linealpha=0.5, label=&quot;&quot;)
 vec_scale = 3
 for (n, (x, V)) in enumerate(zip(x_history, CLV_history))
     for i in 1:3
